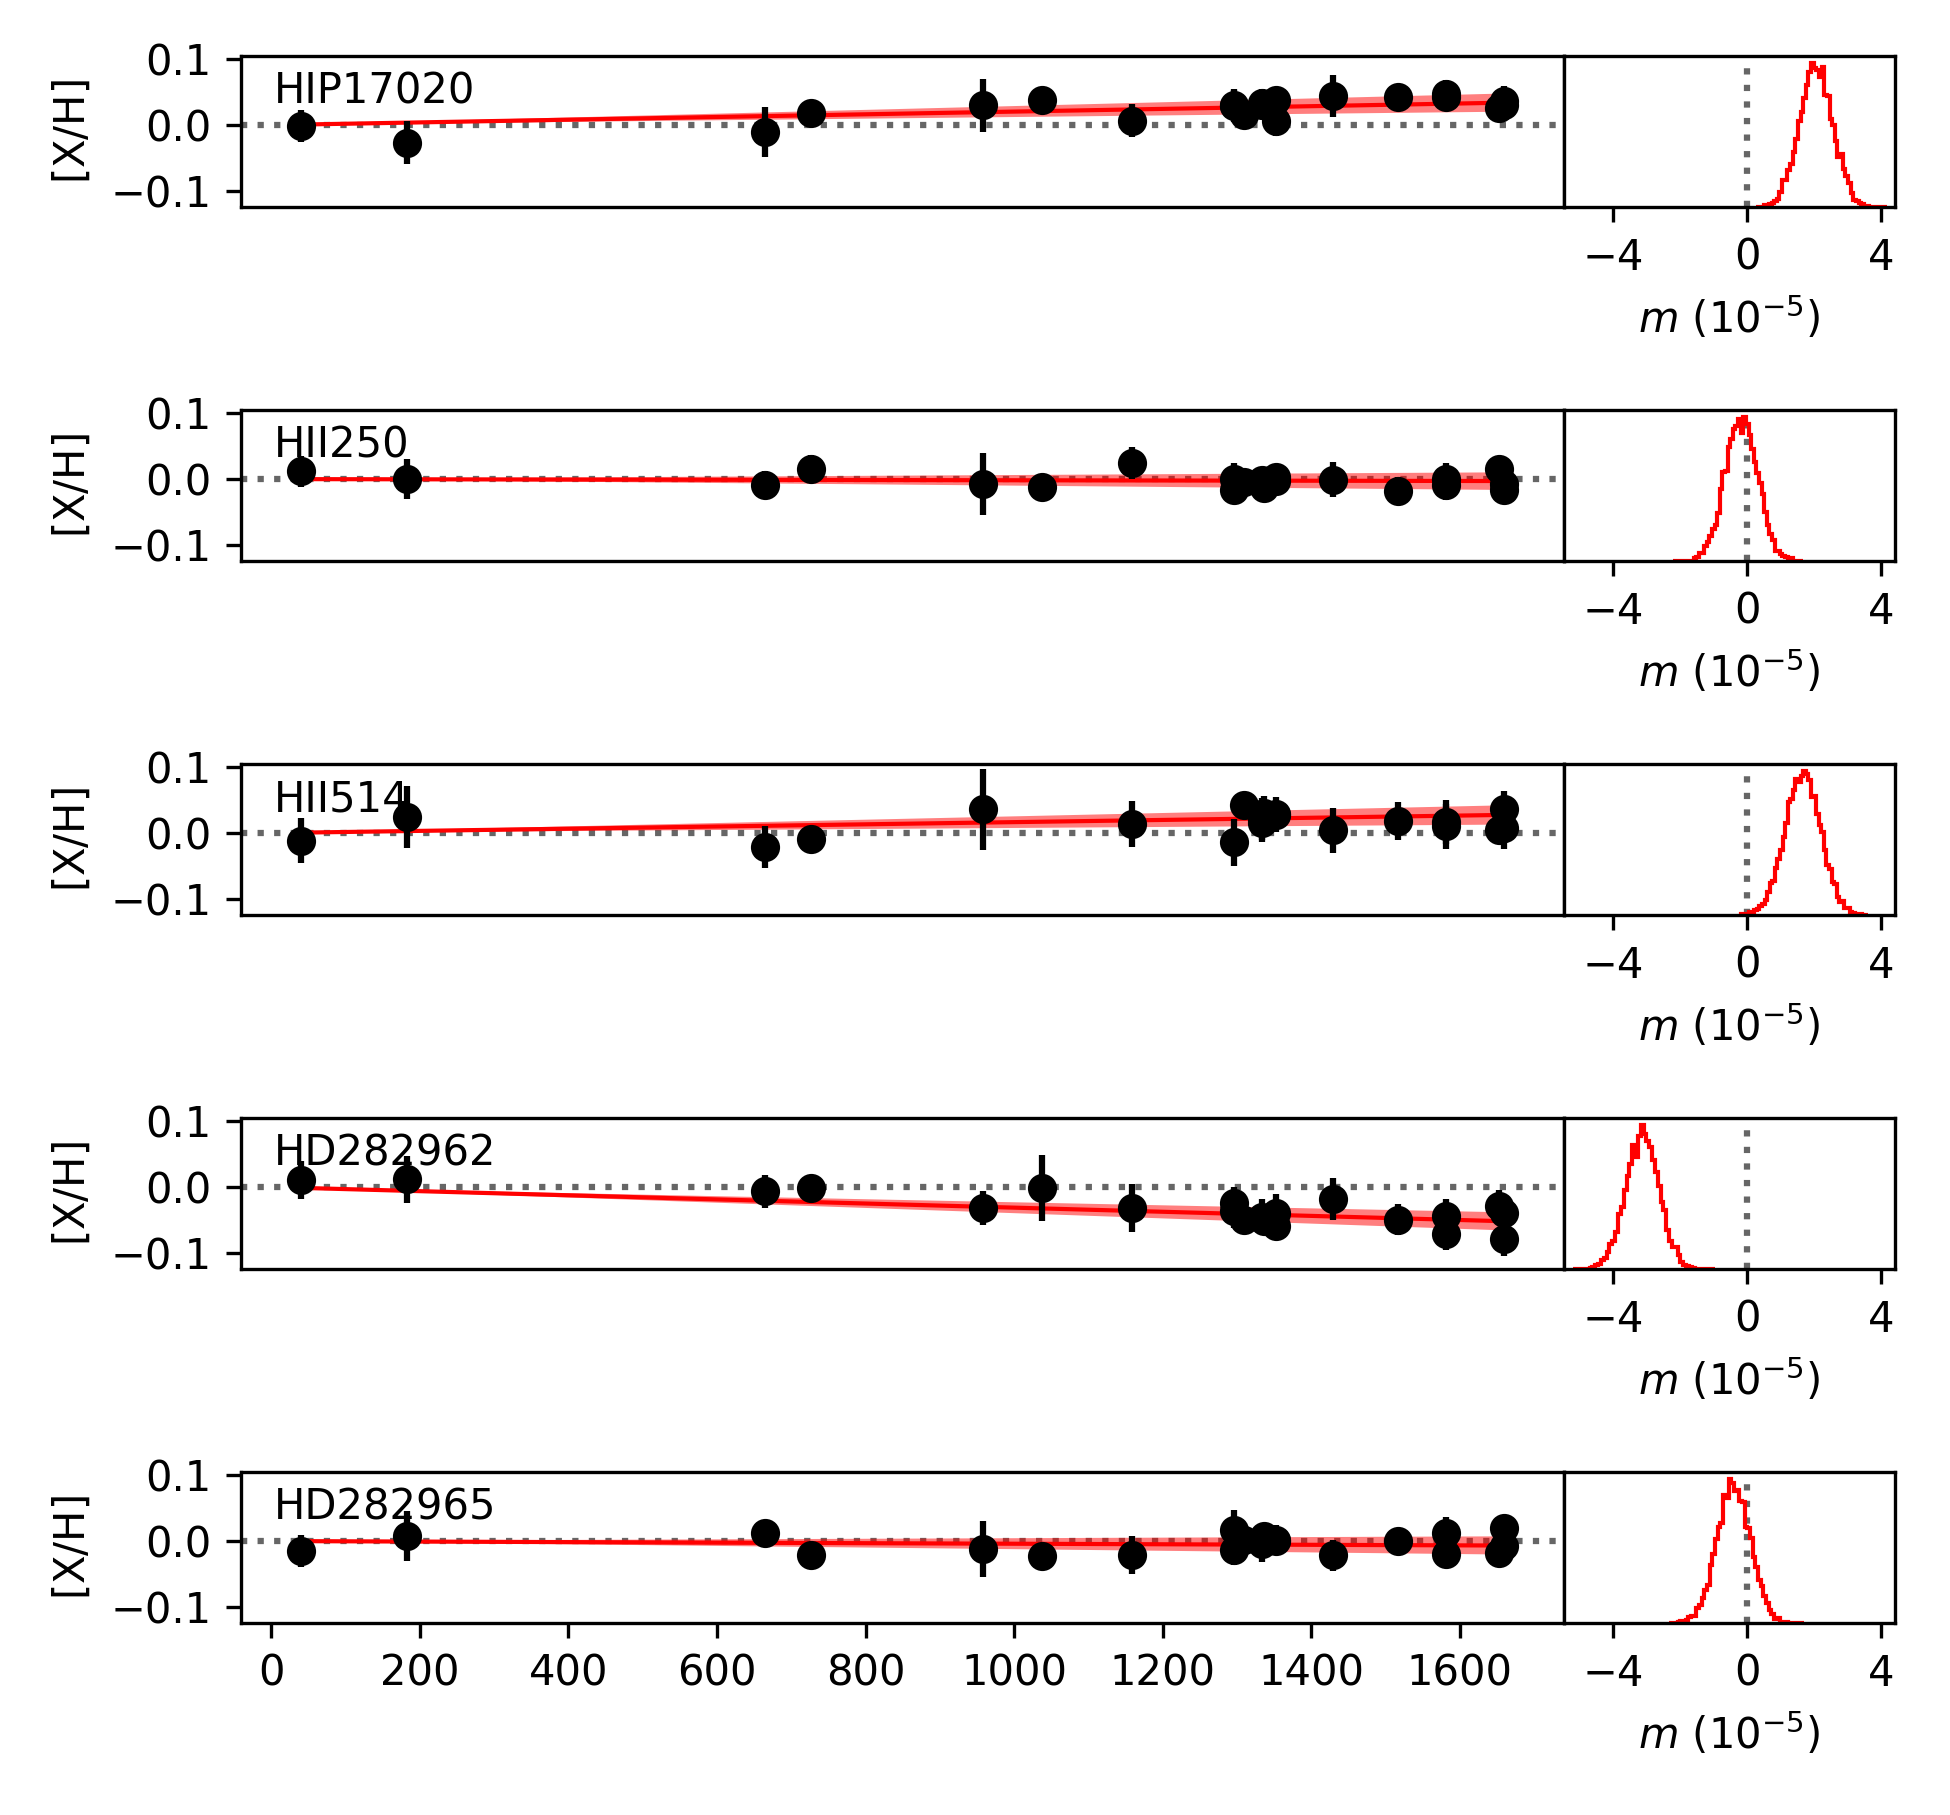
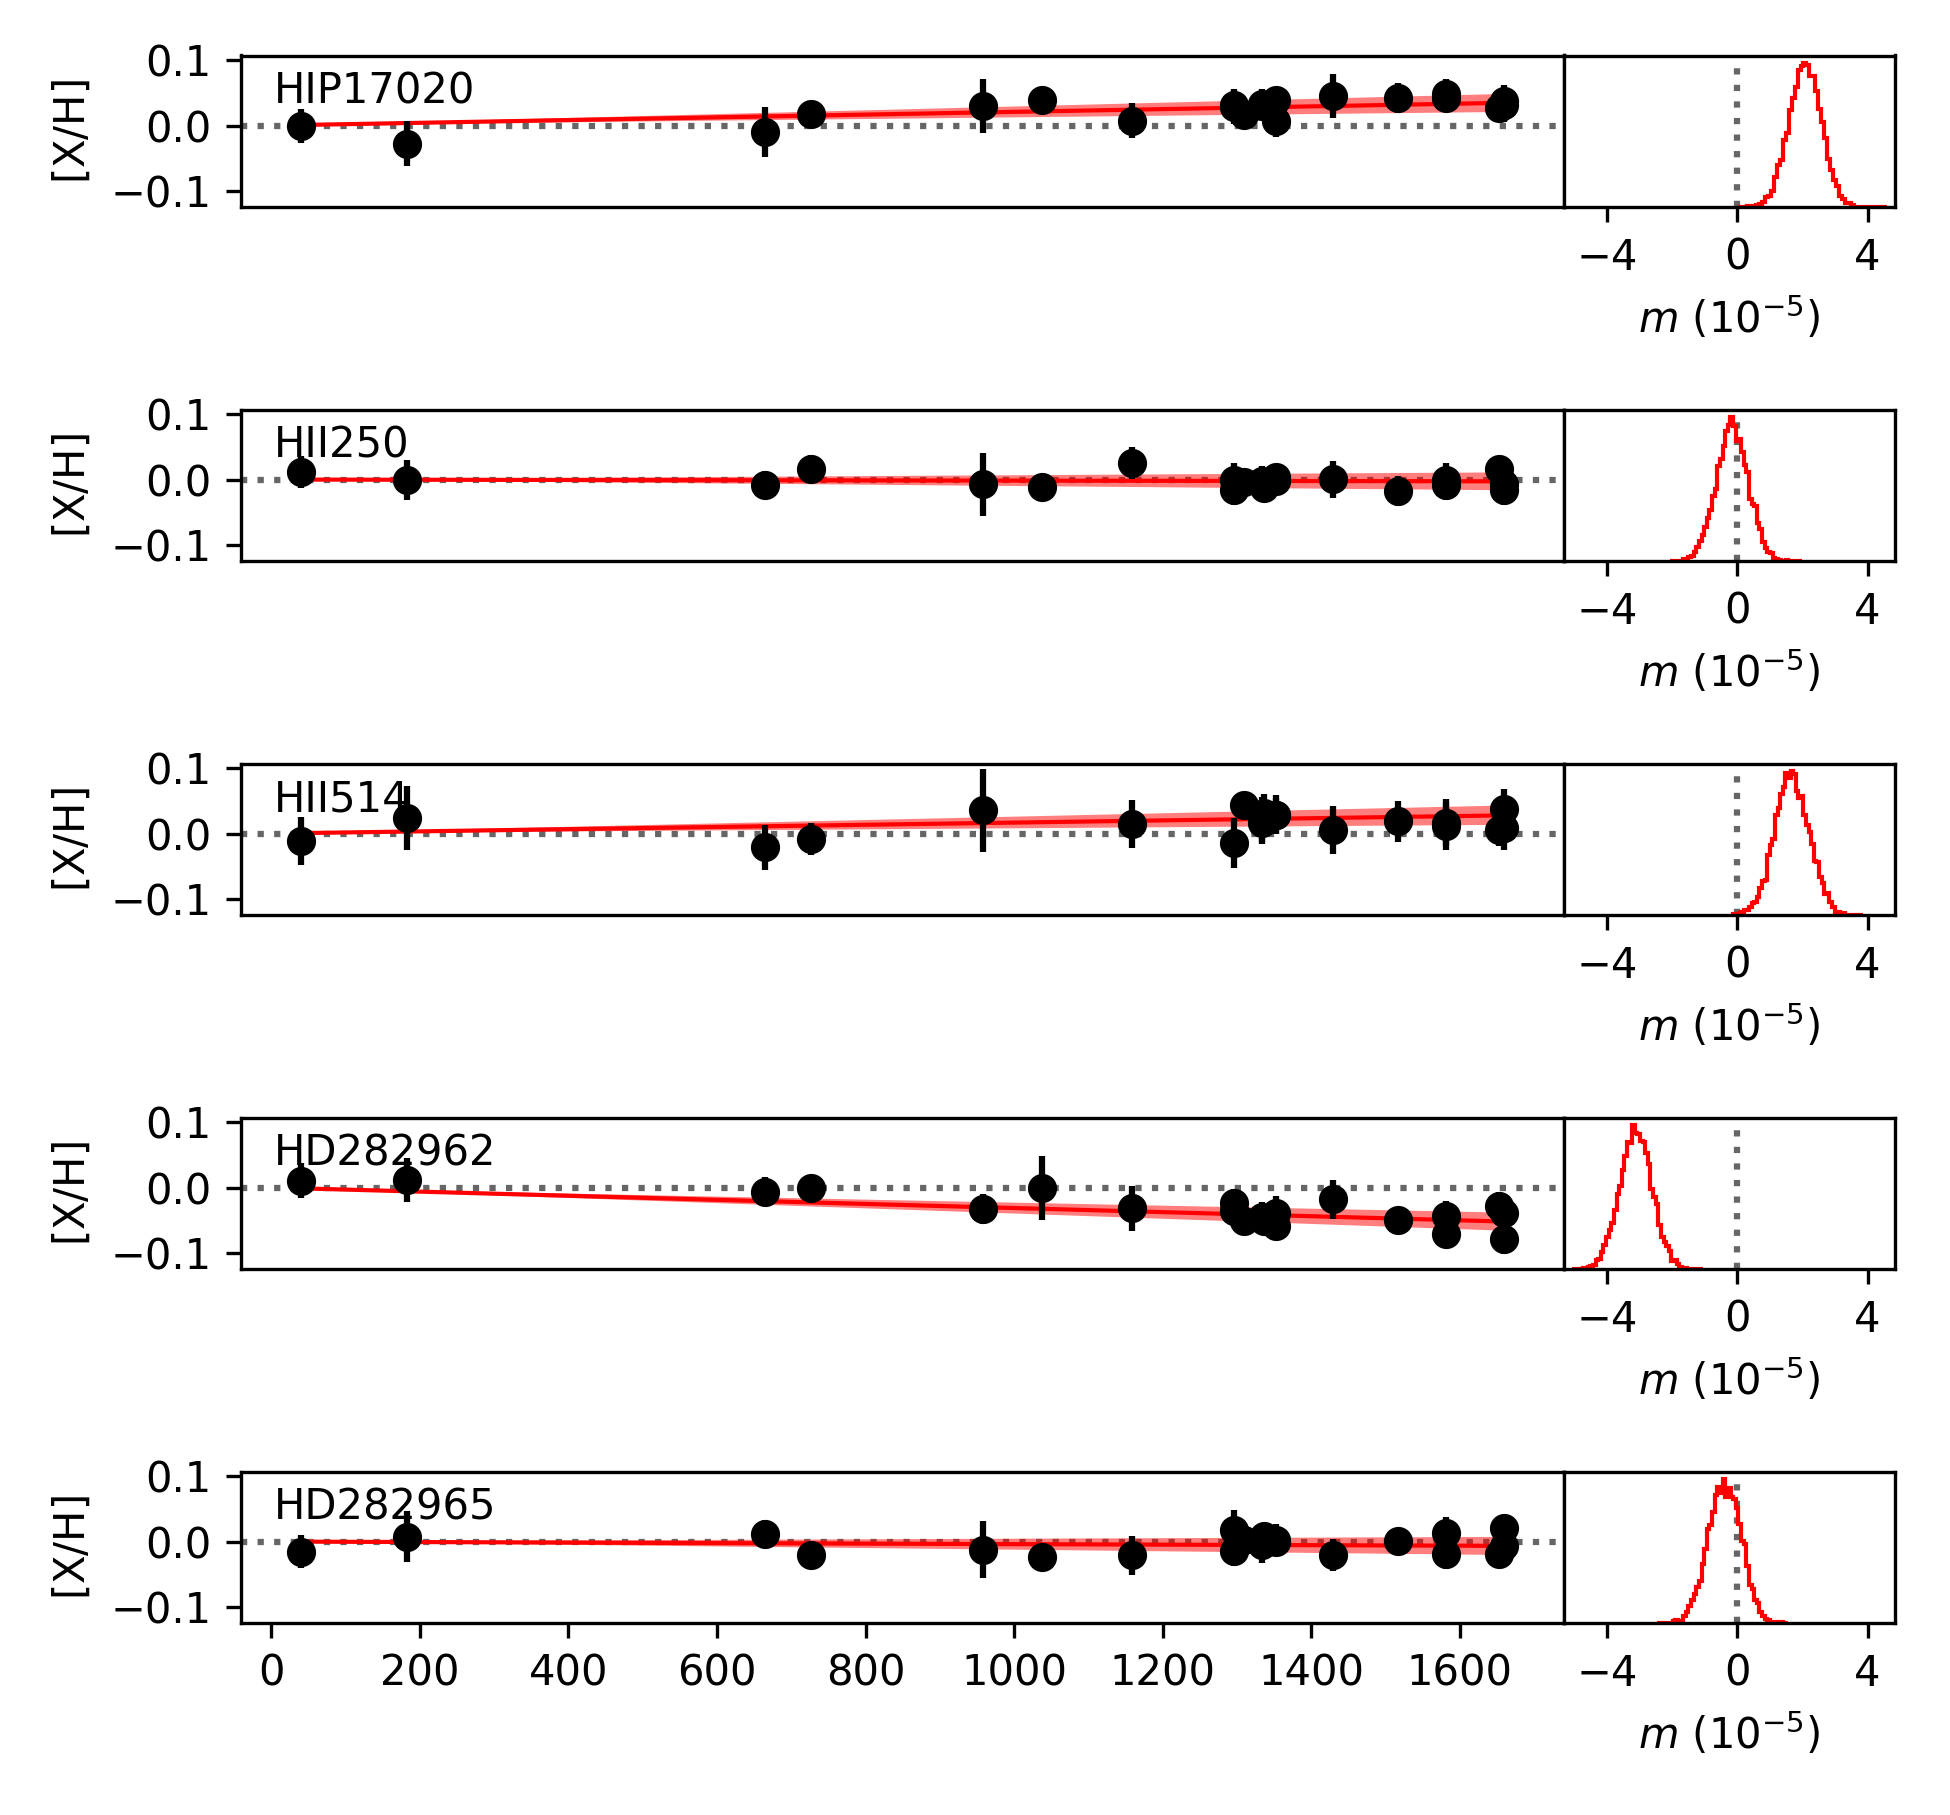
add dependence with feh

diff --git a/lines_wcaafeh.py b/lines_wcaafeh.py
@@ -6,7 +6,7 @@ from pystan.plots import traceplot
 from utils import load_stan_model, sampling_kwds
 
 
-model = load_stan_model("lines_with_cluster_abundances.stan")
+model = load_stan_model("lines_wcaafeh.stan")
 
 spina = Table.read("Abundances_Pleiades_VS_Sun.csv")
 # Exclude Vesta and sort so it matches existing figure:
@@ -66,34 +66,21 @@ Lodders = dict([
 x = np.array([Lodders[el.strip("[I]")] for el in elements]).astype(float)
 
 init = dict(c=np.zeros(A), m=np.zeros(S), scatter=0.001 * np.ones(A),
-    ln_f=0, mean_cluster_abundance=np.median(y))
+    ln_f=0, mean_cluster_abundance=np.median(y),
+    k=np.zeros(S))
 
-
-data = dict(S=S, A=A, x=x, y=y.T, yerr=yerr.T)
+feh_index = elements.index("[FeI]")
+data = dict(S=S, A=A, x=x, y=y.T, yerr=yerr.T, feh=y[feh_index])
 op_params = model.optimizing(data=data, iter=100000, init=init)
-
-
-import matplotlib.pyplot as plt
-fig, axes = plt.subplots(S)
-for i, ax in enumerate(axes):
-
-    ax.scatter(np.repeat(x, S), (y.T - op_params["c"]).T.flatten(),
-        facecolor="#666666",  s=1)
-    ax.scatter(x, y.T[i] - op_params["c"], facecolor="b")
-    ax.axhline(0)
-
-    idx = np.argsort(x)
-    line = op_params["m"][i] * x 
-    ax.plot(x[idx], line[idx], c="r")
 
 samples = model.sampling(**sampling_kwds(data=data, init=op_params,
     chains=2, iter=10000))
 
 # Make trace plots of things we care about.
-fig = traceplot(samples, pars=("c", "m", "ln_f"))
+fig = traceplot(samples, pars=("c", "m", "ln_f", "k"))
 fig.tight_layout()
-fig.savefig("lines_with_cluster_abundances_trace.pdf", dpi=300)
-fig.savefig("lines_with_cluster_abundances_trace.png", dpi=300)
+fig.savefig("lines_wcaafeh_trace.pdf", dpi=300)
+fig.savefig("lines_wcaafeh_trace.png", dpi=300)
 
 
 # Draw figures.
@@ -102,7 +89,6 @@ N, _ = chains["m"].shape
 x_sort = np.argsort(x)
 
 
-#fig, axes = plt.subplots(S)
 fig = plt.figure(figsize=(6.5, 6.05))
 from matplotlib.gridspec import  GridSpec
 from matplotlib.ticker  import  MaxNLocator
@@ -126,7 +112,8 @@ for i in range(S):
         yerr=total_yerr[ok], 
         fmt=None, ecolor="k")
 
-    lines = np.dot(chains["m"][:, i].reshape((-1, 1)), np.atleast_2d(x))
+    lines = np.dot(chains["m"][:, i].reshape((-1, 1)), np.atleast_2d(x)) \
+          + (chains["k"][:, i] * y[feh_index][i]).reshape((-1, 1))
 
     p16, p50, p84 = np.percentile(lines, [5, 50, 95], axis=0)
 
@@ -171,8 +158,8 @@ for ax in hist_axes:
 fig.tight_layout()
 fig.subplots_adjust(wspace=0)
 
-fig.savefig("lines_with_cluster_abundances_fits.pdf", dpi=300)
-fig.savefig("lines_with_cluster_abundances_fits.png", dpi=300)
+fig.savefig("lines_wcaafeh_fits.pdf", dpi=300)
+fig.savefig("lines_wcaafeh_fits.png", dpi=300)
 
 
 # Generate fake data.
